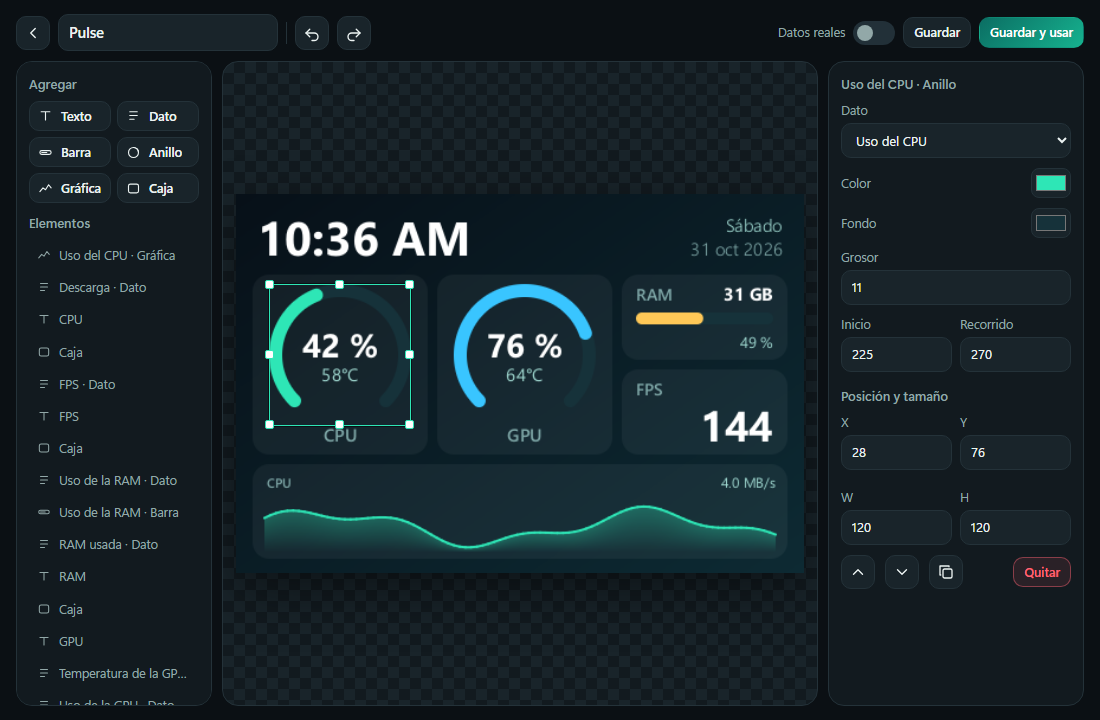
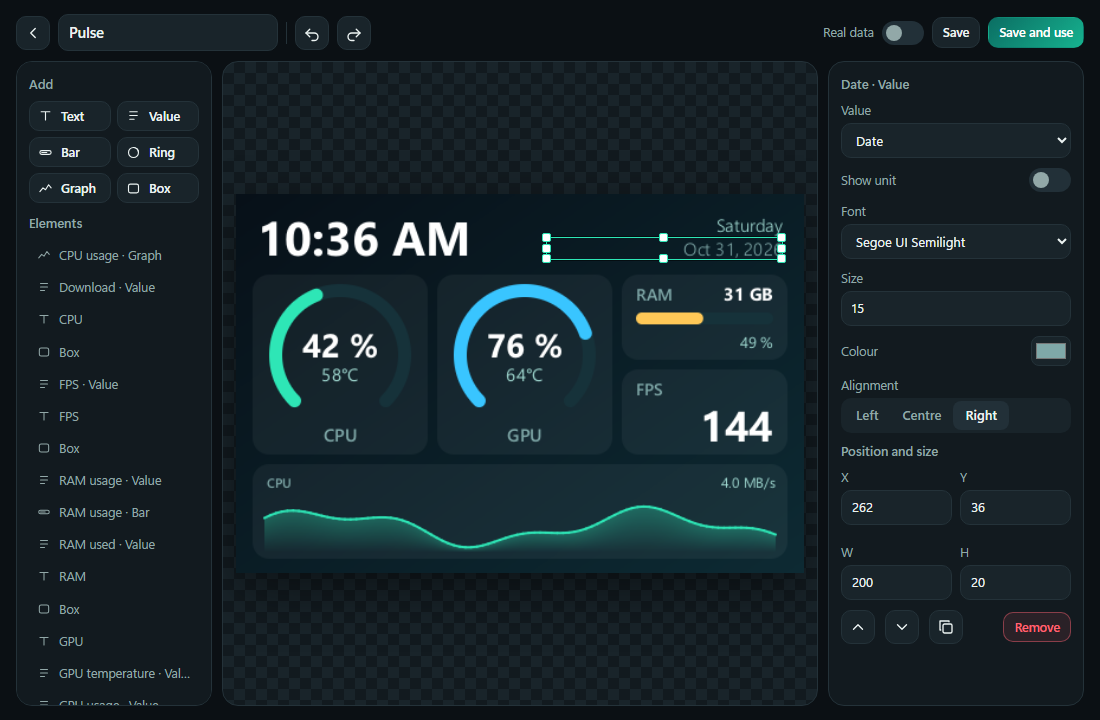
Usa capturas en inglés en el README en inglés

diff --git a/app/web/dev/mock.js b/app/web/dev/mock.js
@@ -5,12 +5,13 @@
   const list = [theme("pulse", "Pulse", true), theme("signal", "Signal", true, true), theme("arcade", "Arcade", true), theme("tierra", "Tierra", false)];
   const n = (number) => ({ number });
   const x = (text) => ({ text });
+  const english = params.get("lang") === "english";
   const readings = {
     cpu_usage: n(23), cpu_temp: n(52), gpu_usage: n(68), gpu_temp: n(61), gpu_memory_used: n(7240), gpu_memory_percent: n(45),
     gpu_fan: n(38), gpu_clock: n(2.68), fps: n(144), ram_percent: n(49), ram_used: n(31), swap_percent: n(12), disk_percent: n(63),
     disk_used: n(1180), disk_free: n(680), net_down: n(4200000), net_up: n(380000), net_down_total: n(52e9), net_up_total: n(6e9),
-    ping: n(14), uptime: n(190800), time: x("10:36 AM"), date: x("31 oct 2026"), weekday: x("Sábado"), weather_temp: n(17),
-    weather_feels: n(15), weather_humidity: n(68), weather_text: x("Nublado"),
+    ping: n(14), uptime: n(190800), time: x("10:36 AM"), date: x(english ? "Oct 31, 2026" : "31 oct 2026"), weekday: x(english ? "Saturday" : "Sábado"), weather_temp: n(17),
+    weather_feels: n(15), weather_humidity: n(68), weather_text: x(english ? "Cloudy" : "Nublado"),
   };
   const state = {
     version: "0.1.0",
@@ -32,7 +33,7 @@
       panel: { port: "auto", brightness: 53, flipped: true, theme: "pulse", off_when_idle: true },
       network: "auto", ping_host: "1.1.1.1",
       alerts: { cpu_temp: 90, gpu_temp: 85, battery: true, battery_url: "http://127.0.0.1:8765/v1/status" },
-      weather: { enabled: true, place: "Bogotá, Colombia", latitude: 4.6, longitude: -74.1, fahrenheit: false },
+      weather: { enabled: true, place: english ? "Bogota, Colombia" : "Bogotá, Colombia", latitude: 4.6, longitude: -74.1, fahrenheit: false },
       fps: { ignored: ["wallpaper64.exe", "obs64.exe"], count_generated: true },
       maintenance: { deghost_days: 7, last_deghost: 0 },
     },

diff --git a/crates/render/examples/snapshot.rs b/crates/render/examples/snapshot.rs
@@ -1,9 +1,14 @@
 //! Guarda en PNG cómo se ve cada tema incluido, con datos de ejemplo. `snapshot <carpeta> [escala] [carpeta de un tema]`.
+//! Con `PULSELCD_LANG=english`, los textos de ejemplo salen en inglés.
 
 use pulse_render::{AlertView, BUILTIN, History, Scene, builtin_theme};
+use pulse_shared::i18n::{self, Language};
 use pulse_shared::metrics::{Metric, Readings};
 
 fn main() {
+    if std::env::var("PULSELCD_LANG").is_ok_and(|language| language == "english") {
+        i18n::set(Language::English);
+    }
     let folder = std::env::args().nth(1).unwrap_or_else(|| ".".into());
     let scale: u32 = std::env::args().nth(2).and_then(|s| s.parse().ok()).unwrap_or(2);
     if let Some(theme) = std::env::args().nth(3) {

diff --git a/README.es.md b/README.es.md
@@ -13,7 +13,7 @@
 
 <br>
 
-<img src="docs/images/home.png" alt="Ventana principal de PulseLCD, con la pantalla en vivo junto a sus controles" width="720">
+<img src="docs/images/home-es.png" alt="Ventana principal de PulseLCD, con la pantalla en vivo junto a sus controles" width="720">
 
 </div>
 
@@ -67,8 +67,8 @@ app tiene que arreglarlos sola**, sin que tengas que tocar el cable.
 - **Español e inglés,** claro y oscuro.
 
 <div align="center">
-<img src="docs/images/themes.png" alt="Algunos de los temas incluidos" width="640">
-<img src="docs/images/editor.png" alt="Editor de temas con un anillo seleccionado y sus propiedades" width="430">
+<img src="docs/images/themes-es.png" alt="Algunos de los temas incluidos" width="640">
+<img src="docs/images/editor-es.png" alt="Editor de temas con un anillo seleccionado y sus propiedades" width="430">
 </div>
 
 ## 🛡 Un panel que se cuida solo
